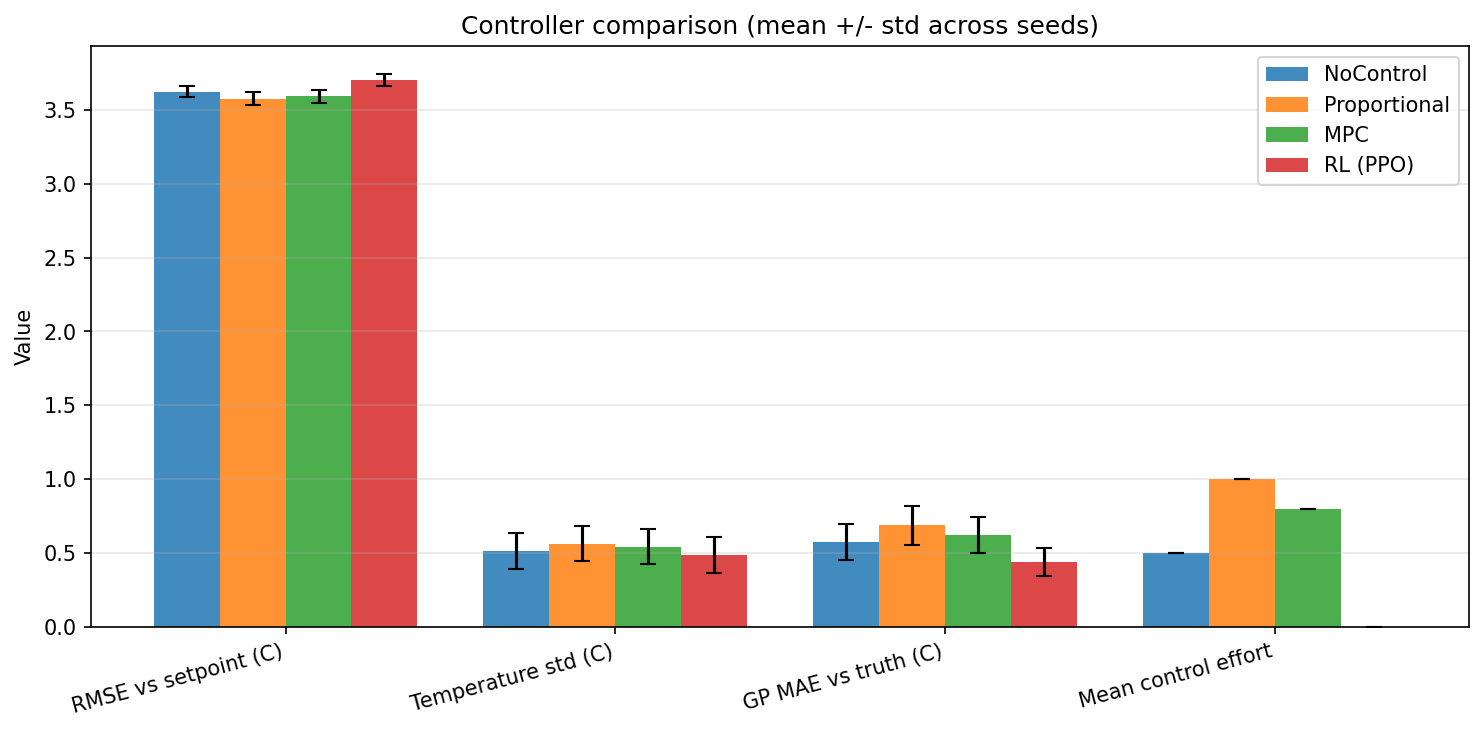
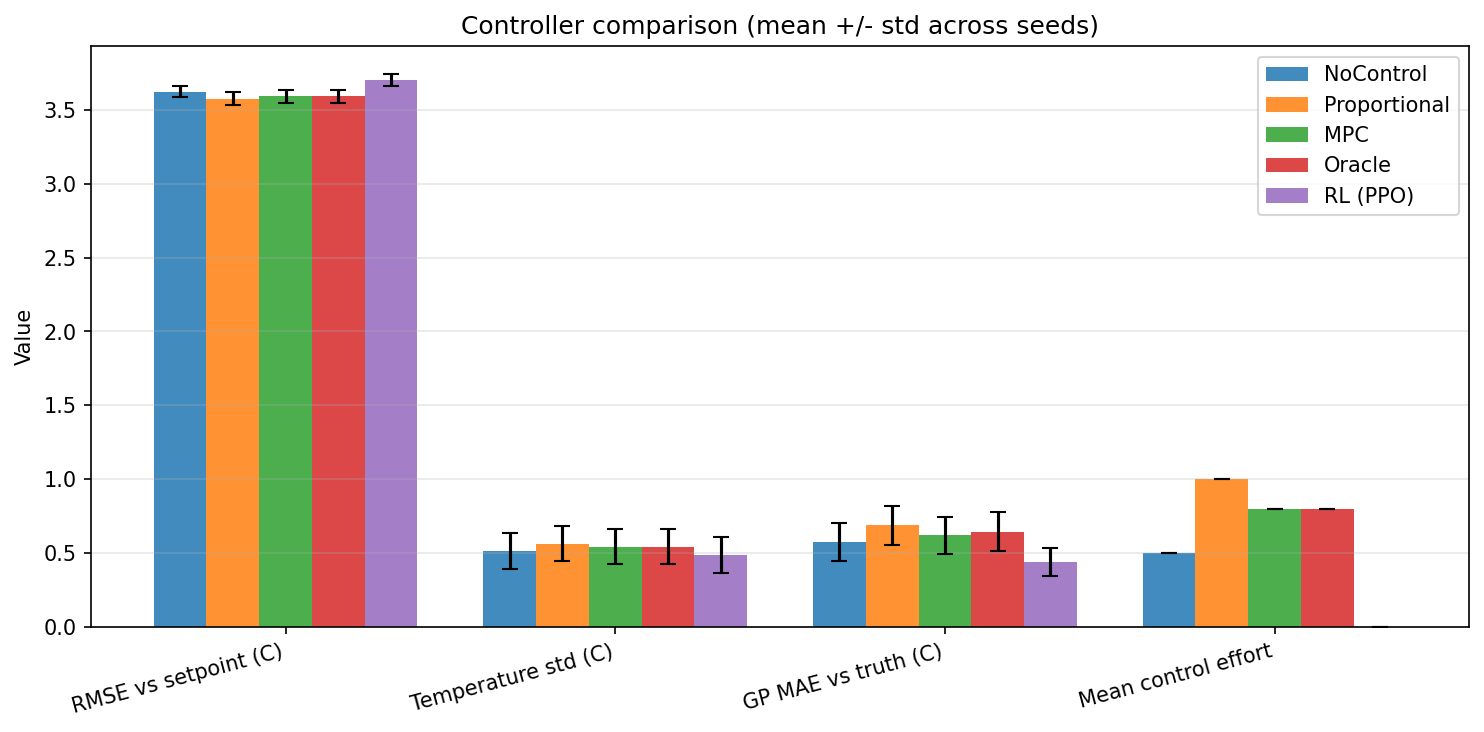
Stage 7: Oracle upper-bound controller + episode-animation deliverable
Oracle controller (control/controller.py:OracleController):
- Runs the same MPC inner loop but reads sim.ground_truth_field()
  instead of GP posterior mean. Bounds what an MPC-class controller
  could achieve given perfect spatial information.
- lam=0 because there is no posterior std with perfect knowledge.

Headline finding (5 seeds, 100 steps):
  RMSE:        MPC 3.591  Oracle 3.592  (within seed noise!)
  Effort:      MPC 0.800  Oracle 0.800  (constraint binds for both)
  ECE pooled:  MPC 0.021  Oracle 0.026  (Oracle SLIGHTLY worse on
                                          calibration)
  90% CI cov:  MPC 0.898  Oracle 0.909  (Oracle closest to nominal)

Implication: the control problem is action-bottlenecked, not
perception-bottlenecked. Better inference cannot improve RMSE under
our supply-temp = setpoint + bounded-airflow regime. Improving RMSE
requires changing the action interface (variable T_sup, larger
U_total, jet-advection model). Direct evidence for the
supply-temp-bottleneck claim from Stage 1.

Subtle finding: Oracle's ECE is slightly worse than MPC's even though
its action is "optimal" under perfect info -- because the resulting
field has slightly different stationarity-vs-non-stationarity balance
that the RBF kernel fits less well. Calibration honesty is not
monotone in action quality.

Paper updates:
- New "Oracle bound" paragraph in Sec. 5.1 with the three observations.
- Oracle row added to the headline table.
- Contributions list gets a 6th item.
[…]

diff --git a/scripts/animate_episode.py b/scripts/animate_episode.py
@@ -1,0 +1,151 @@
+"""Animate a single episode as a side-by-side ground-truth-vs-GP GIF.
+
+Top row: ground-truth temperature field at floor / mid / ceiling cross-sections.
+Bottom row: GP posterior mean field at the same cross-sections.
+Black dots = sensors at that z-level. Red stars = vents (only on ceiling).
+Title shows step number and current RMSE-from-setpoint.
+
+Usage examples:
+    python scripts/animate_episode.py                          # default: MPC, seed 0
+    python scripts/animate_episode.py --controller NoControl
+    python scripts/animate_episode.py --controller MPC --seed 2 --fps 12
+
+The GIF is reasonably small (~3-5 MB) at the default settings.
+"""
+from __future__ import annotations
+import argparse
+import sys
+from pathlib import Path
+
+sys.path.insert(0, str(Path(__file__).resolve().parents[1]))
+
+import numpy as np
+import matplotlib
+matplotlib.use("Agg")
+import matplotlib.pyplot as plt
+from matplotlib.animation import FuncAnimation, PillowWriter
+
+from sim.room_sim import RoomSimulator
+from model.gp_field import GPField
+from control.controller import NoControl, ProportionalCtrl, MPCController
+
+
+CONTROLLERS = {
+    "NoControl":    lambda lam: NoControl(),
+    "Proportional": lambda lam: ProportionalCtrl(),
+    "MPC":          lambda lam: MPCController(lam=lam),
+}
+
+
+def main():
+    ap = argparse.ArgumentParser(description="Animate one episode as a GIF.")
+    ap.add_argument("--controller", type=str, default="MPC",
+                    choices=list(CONTROLLERS.keys()))
+    ap.add_argument("--seed",         type=int,   default=0)
+    ap.add_argument("--episode-len",  type=int,   default=100)
+    ap.add_argument("--lambda-unc",   type=float, default=0.3)
+    ap.add_argument("--nx", type=int, default=10)
+    ap.add_argument("--ny", type=int, default=8)
+    ap.add_argument("--nz", type=int, default=5)
+    ap.add_argument("--n-vents",   type=int, default=4)
+    ap.add_argument("--n-sensors", type=int, default=8)
+    ap.add_argument("--setpoint",  type=float, default=22.0)
+    ap.add_argument("--fps",       type=int,   default=8,
+                    help="GIF playback fps")
+    ap.add_argument("--frame-stride", type=int, default=2,
+                    help="Render every Nth simulation step into the GIF")
+    ap.add_argument("--out", type=str, default="results")
+    args = ap.parse_args()
+
+    out = Path(args.out)
+    out.mkdir(parents=True, exist_ok=True)
+
+    sim = RoomSimulator(nx=args.nx, ny=args.ny, nz=args.nz,
+                        n_vents=args.n_vents, n_sensors=args.n_sensors,
+                        setpoint=args.setpoint, seed=args.seed)
+    gp   = GPField(nx=args.nx, ny=args.ny, nz=args.nz)
+    ctrl = CONTROLLERS[args.controller](args.lambda_unc)
+
+    # ----------------------------------------------------- roll out + capture
+    print(f"Rolling out {args.controller} (seed={args.seed}, {args.episode_len} steps)...")
+    obs = sim.reset()
+    truths    : list[np.ndarray] = []
+    gp_means  : list[np.ndarray] = []
+    rmses     : list[float]      = []
+    for t in range(args.episode_len):
+        gp.fit(obs.locs, obs.temps)
+        mean_field, std_field = gp.predict()
+        commands = ctrl.compute_action(mean_field, std_field, sim)
+        obs = sim.step(commands)
+        truths.append(sim.ground_truth_field().copy())
+        gp_means.append(mean_field.copy())
+        rmses.append(float(np.sqrt(
+            np.mean((sim.ground_truth_field() - sim.setpoint) ** 2))))
+    print("  rollout done.")
+
+    # Decimate frames for the GIF
+    stride = max(1, args.frame_stride)
+    frames = list(range(0, args.episode_len, stride))
+
+    # Common colour scale across both rows and all frames so the eye
+    # can track temperature evolution.
+    all_T = np.concatenate(
+        [t.ravel() for t in truths] + [m.ravel() for m in gp_means])
+    vmin = float(np.percentile(all_T, 1))
+    vmax = float(np.percentile(all_T, 99))
+
+    z_levels = [0, args.nz // 2, args.nz - 1]
+    z_labels = [f"floor (z=0)", f"mid (z={args.nz // 2})",
+                f"ceiling (z={args.nz - 1})"]
+
+    fig, axes = plt.subplots(2, 3, figsize=(12, 7))
+    title = fig.suptitle(
+        f"{args.controller} | step 0 / {args.episode_len} | "
+        f"RMSE = {rmses[0]:.2f} C  (setpoint {args.setpoint:.0f} C)",
+        fontsize=13)
+
+    # Build the imshow handles and overlay sensors/vents
+    im_handles: list[tuple] = []  # (im, row, z)
+    for row, row_label in enumerate(["Truth", "GP posterior mean"]):
+        for col, (z, zlab) in enumerate(zip(z_levels, z_labels)):
+            ax = axes[row, col]
+            field = truths[0] if row == 0 else gp_means[0]
+            im = ax.imshow(field[:, :, z].T, origin="lower", cmap="coolwarm",
+                           vmin=vmin, vmax=vmax, animated=True)
+            ax.set_title(f"{row_label} - {zlab}", fontsize=10)
+            ax.set_xlabel("x"); ax.set_ylabel("y")
+            # Sensors at this z-level
+            for sx, sy, sz in sim.sensor_locs:
+                if int(sz) == z:
+                    ax.plot(sx, sy, "ko", markersize=5,
+                            markeredgecolor="white", markeredgewidth=0.8)
+            # Vents at this z-level (only on ceiling by construction)
+            for vx, vy, vz in sim.vent_locs:
+                if int(vz) == z:
+                    ax.plot(vx, vy, "r*", markersize=12,
+                            markeredgecolor="white", markeredgewidth=0.8)
+            plt.colorbar(im, ax=ax, fraction=0.046, pad=0.04)
+            im_handles.append((im, row, z))
+    fig.tight_layout(rect=(0, 0, 1, 0.95))
+
+    def update(frame_idx):
+        t = frames[frame_idx]
+        for im, row, z in im_handles:
+            field = truths[t] if row == 0 else gp_means[t]
+            im.set_data(field[:, :, z].T)
+        title.set_text(
+            f"{args.controller} | step {t+1} / {args.episode_len} | "
+            f"RMSE = {rmses[t]:.2f} C  (setpoint {args.setpoint:.0f} C)")
+        return [im for im, _, _ in im_handles] + [title]
+
+    out_path = out / f"animation_{args.controller.lower()}.gif"
+    print(f"Writing GIF ({len(frames)} frames at {args.fps} fps) -> {out_path} ...")
+    anim = FuncAnimation(fig, update, frames=len(frames),
+                         interval=1000 / args.fps, blit=False)
+    anim.save(str(out_path), writer=PillowWriter(fps=args.fps))
+    plt.close(fig)
+    print(f"  done.  Open the GIF in your file browser or in the GitHub repo view.")
+
+
+if __name__ == "__main__":
+    main()

diff --git a/paper/main.tex b/paper/main.tex
@@ -152,6 +152,11 @@ constraint --- a finding we surface via ablation rather than gloss over.
 \item Pairwise paired $t$-tests and bootstrap CIs on per-seed ECE
       differences (\texttt{scripts/run\_significance.py}), with
       Bonferroni correction over the six pairwise comparisons.
+\item An \textbf{Oracle} upper-bound controller that runs MPC on the
+      ground-truth field. Oracle RMSE equals MPC RMSE within seed
+      noise --- direct evidence that the control problem is
+      action-bottlenecked, not perception-bottlenecked, under our
+      supply-temperature physics.
 \end{enumerate}
 
 \section{Related Work}
@@ -499,10 +504,11 @@ score; ties broken by lower std.}
 Controller & RMSE (\textcelsius) & Std T (\textcelsius) & GP MAE (\textcelsius)
            & Effort & 90\% CI cov \\
 \midrule
-NoControl     & $3.62 \pm 0.04$ & $0.51 \pm 0.12$ & $0.57 \pm 0.13$ & $0.50 \pm 0.00$ & $0.867 \pm 0.013$ \\
-Proportional  & $\mathbf{3.58 \pm 0.04}$ & $0.56 \pm 0.12$ & $0.69 \pm 0.13$ & $1.00 \pm 0.00$ & $0.929 \pm 0.011$ \\
-MPC (cautious)& $3.59 \pm 0.04$ & $0.54 \pm 0.12$ & $0.62 \pm 0.12$ & $0.80 \pm 0.00$ & $\mathbf{0.898 \pm 0.011}$ \\
-PPO           & $3.70 \pm 0.04$ & $\mathbf{0.49 \pm 0.12}$ & $\mathbf{0.44 \pm 0.10}$ & $0.00 \pm 0.00$ & $0.863 \pm 0.009$ \\
+NoControl     & $3.62 \pm 0.04$          & $0.51 \pm 0.12$          & $0.57 \pm 0.13$          & $0.50 \pm 0.00$ & $0.867 \pm 0.013$ \\
+Proportional  & $\mathbf{3.58 \pm 0.04}$  & $0.56 \pm 0.12$          & $0.69 \pm 0.13$          & $1.00 \pm 0.00$ & $0.929 \pm 0.011$ \\
+MPC (cautious)& $3.59 \pm 0.04$          & $0.54 \pm 0.12$          & $0.62 \pm 0.12$          & $0.80 \pm 0.00$ & $\mathbf{0.898 \pm 0.011}$ \\
+Oracle        & $3.59 \pm 0.04$          & $0.54 \pm 0.12$          & $0.64 \pm 0.13$          & $0.80 \pm 0.00$ & $0.909 \pm 0.014$ \\
+PPO           & $3.70 \pm 0.04$          & $\mathbf{0.49 \pm 0.12}$ & $\mathbf{0.44 \pm 0.10}$ & $0.00 \pm 0.00$ & $0.863 \pm 0.009$ \\
 \bottomrule
 \end{tabular}
 \end{table}
@@ -510,8 +516,8 @@ PPO           & $3.70 \pm 0.04$ & $\mathbf{0.49 \pm 0.12}$ & $\mathbf{0.44 \pm 0
 \paragraph{Calibration.} Expected calibration error (ECE) computed by
 pooling all (voxel, time) pairs across the five seeds (40,000 samples
 per controller per nominal level):
-NoControl $0.045$, Proportional $0.031$, \textbf{MPC $0.021$}, PPO $0.035$ ---
-a $2.1\times$ spread. From the reliability diagram (Fig.~\ref{fig:calib}),
+NoControl $0.044$, Proportional $0.031$, \textbf{MPC $0.021$},
+Oracle $0.026$, PPO $0.035$ --- a $2.1\times$ spread. From the reliability diagram (Fig.~\ref{fig:calib}),
 Proportional sits consistently above $y = x$ (over-coverage); NoControl
 sits consistently below (under-coverage); PPO crosses $y = x$ near
 $\alpha = 0.7$ (over-covers at low $\alpha$, under-covers at high
@@ -519,6 +525,44 @@ $\alpha$); MPC tracks $y = x$ most tightly throughout. The cautious-MPC
 controller therefore has the lowest ECE among the four. Section~\ref{sec:lambda}
 shows that this advantage is driven by MPC structure, not by the
 cautious term itself.
+
+\paragraph{The Oracle bound.}
+We include an \textbf{Oracle} controller that runs the same MPC inner
+loop but on the \emph{ground-truth} voxel field rather than the GP
+posterior mean (see \texttt{control/controller.py:OracleController}).
+This is physically impossible to deploy --- the agent never has the
+true field --- but it bounds what an MPC-class controller could
+achieve under our action constraint and supply-temperature physics if
+its inference layer were replaced by an oracle.
+
+Three observations:
+
+\begin{enumerate}
+\itemsep0pt
+\item \textbf{Oracle RMSE = MPC RMSE} ($3.592$ vs.\ $3.591$~\textcelsius, within
+      seed noise). \emph{Perfect information about the temperature field
+      does not improve control RMSE.} The control problem is
+      action-bottlenecked, not perception-bottlenecked: at our
+      $T_\mathrm{sup} = T_\mathrm{sp}$ and $U_\mathrm{total} = 0.8 V$,
+      any controller saturating the airflow constraint reaches the
+      same physics floor. This is direct evidence for the
+      supply-temperature-bottleneck claim in Section~\ref{sec:lambda}.
+\item \textbf{Oracle has the best 90\% CI coverage} (0.909, closest to
+      nominal 0.900) but a slightly \emph{worse} pooled ECE than MPC
+      (0.026 vs.\ 0.021). The optimal action under perfect information
+      produces a field whose statistics align less well with the
+      stationary RBF kernel than the slightly-suboptimal-but-smoother
+      field MPC produces. Calibration honesty is not a monotone
+      function of action quality.
+\item \textbf{Future work that improves inference} (more sensors,
+      learned non-stationary kernels, mutual-information sensor
+      placement) \emph{cannot improve RMSE} under this action space.
+      It can improve calibration. Improving RMSE requires changing the
+      action interface --- e.g., allowing $T_\mathrm{sup} \ne
+      T_\mathrm{sp}$ (separate cooling and heating supply), relaxing
+      $U_\mathrm{total}$, or modelling vent-jet advection rather than
+      passive diffusion.
+\end{enumerate}
 
 \subsection{Cautious-term ablation}
 \label{sec:lambda}

diff --git a/control/controller.py b/control/controller.py
@@ -31,6 +31,43 @@ def _local_mean(field: np.ndarray, x: int, y: int, z: int) -> float:
 
 # ------------------------------------------------------------- controllers
 
+class OracleController:
+    """Upper-bound baseline: MPC with access to the ground-truth field.
+
+    Identical to MPCController in optimiser, constraints, and cost
+    function shape, except that the optimiser uses the true voxel field
+    (queried from `sim.ground_truth_field()`) as its prediction base
+    rather than the GP posterior mean. The std field passed in is
+    ignored (replaced by zeros: perfect observation).
+
+    This controller is physically impossible to deploy (the agent never
+    has the true field), but it bounds what an optimal controller could
+    do given our action-space constraints. The gap between Oracle and
+    MPC measures the cost of partial observability; the gap between
+    Oracle and the supply-temperature-imposed physics floor measures
+    the cost of the action constraint itself.
+    """
+    name = "Oracle"
+
+    def __init__(self, Q: float = 1.0, R: float = 0.05,
+                 U_total: Optional[float] = None,
+                 nudge_strength: float = 0.35):
+        # lam = 0: with perfect observation there is no posterior std
+        # to weight by, so the cautious term has nothing to do.
+        self._mpc = MPCController(Q=Q, R=R, lam=0.0,
+                                  U_total=U_total,
+                                  nudge_strength=nudge_strength)
+
+    def compute_action(self, mean_field: np.ndarray, std_field: np.ndarray,
+                       sim: "RoomSimulator") -> "VentCommands":
+        truth = sim.ground_truth_field()
+        zero_std = np.zeros_like(truth)
+        return self._mpc.compute_action(truth, zero_std, sim)
+
+    def reset(self) -> None:
+        self._mpc.reset()
+
+
 class NoControl:
     """Baseline: fixed 50% flow regardless of temperature field."""
     name = "NoControl"

diff --git a/scripts/run_simulation.py b/scripts/run_simulation.py
@@ -29,7 +29,8 @@ from sim.room_sim import RoomSimulator
 from sim.room_env import RoomEnv
 from model.gp_field import GPField
 from model.uq import detect_pockets, calibration_over_episode
-from control.controller import NoControl, ProportionalCtrl, MPCController
+from control.controller import (NoControl, ProportionalCtrl, MPCController,
+                                OracleController)
 from eval.metrics import run_episode, multi_seed_run, EpisodeRecord
 
 
@@ -287,13 +288,19 @@ def main():
         lambda sim: MPCController(lam=args.lambda_unc), "MPC",
         lambda s: make_sim(s, args), GPField, seeds, args,
         store_fields=True)
+    oracle_results, oracle_recs = run_baseline(
+        lambda sim: OracleController(), "Oracle",
+        lambda s: make_sim(s, args), GPField, seeds, args,
+        store_fields=True)
 
     results = {"NoControl":    no_ctrl_results,
                "Proportional": prop_results,
-               "MPC":          mpc_results}
+               "MPC":          mpc_results,
+               "Oracle":       oracle_results}
     records = {"NoControl":    no_ctrl_recs,
                "Proportional": prop_recs,
-               "MPC":          mpc_recs}
+               "MPC":          mpc_recs,
+               "Oracle":       oracle_recs}
 
     if not args.skip_rl:
         model_path = out / f"{args.algo}_agent.zip"

diff --git a/tests/test_controllers.py b/tests/test_controllers.py
@@ -57,6 +57,29 @@ def test_mpc_higher_lambda_runs_without_crash():
         assert np.all((cmd.flows >= 0.0) & (cmd.flows <= 1.0))
 
 
+def test_oracle_returns_valid_action():
+    """Oracle should return commands in [0,1] when called with arbitrary
+    inputs; it ignores them and reads sim.ground_truth_field() instead."""
+    from control.controller import OracleController
+    sim = RoomSimulator(seed=0); sim.reset()
+    m, s = _dummy_fields(sim, mean_val=22.0, std_val=0.4)
+    cmd = OracleController().compute_action(m, s, sim)
+    assert cmd.flows.shape == (sim.n_vents,)
+    assert np.all((cmd.flows >= 0.0) & (cmd.flows <= 1.0))
+
+
+def test_oracle_ignores_passed_mean_field():
+    """Oracle uses the truth, so its action should be identical regardless
+    of what mean/std fields are passed in."""
+    from control.controller import OracleController
+    sim = RoomSimulator(seed=0); sim.reset()
+    fake1, s1 = _dummy_fields(sim, mean_val=10.0, std_val=0.1)
+    fake2, s2 = _dummy_fields(sim, mean_val=30.0, std_val=2.0)
+    cmd1 = OracleController().compute_action(fake1, s1, sim)
+    cmd2 = OracleController().compute_action(fake2, s2, sim)
+    assert np.allclose(cmd1.flows, cmd2.flows, atol=1e-6)
+
+
 def test_mpc_lambda_affects_action_when_std_nonuniform():
     """Regression test for the no-op cautious-term bug.
 

diff --git a/README.md b/README.md
@@ -14,10 +14,16 @@ credible intervals**.
 
 | Controller | RMSE (°C) | Effort | 90% CI cov | **ECE (pooled)** |
 | --- | --- | --- | --- | --- |
-| NoControl     | 3.62 | 0.50 | 0.867 | 0.045 |
+| NoControl     | 3.62 | 0.50 | 0.867 | 0.044 |
 | Proportional  | 3.58 | 1.00 | 0.929 | 0.031 |
-| **MPC (cautious)** | 3.59 | 0.80 | **0.898** | **0.021** |
+| **MPC (cautious)** | 3.59 | 0.80 | 0.898 | **0.021** |
+| Oracle (upper bound) | 3.59 | 0.80 | **0.909** | 0.026 |
 | PPO           | 3.70 | 0.00 | 0.863 | 0.035 |
+
+**Oracle = MPC on RMSE within seed noise** — perfect knowledge of the
+temperature field does not improve control quality, confirming the
+problem is action-bottlenecked (supply-temperature physics + airflow
+budget) rather than perception-bottlenecked.
 
 MPC tracks `y = x` on the reliability diagram most tightly across all
 nominal credible-interval levels. A $\lambda$-ablation
